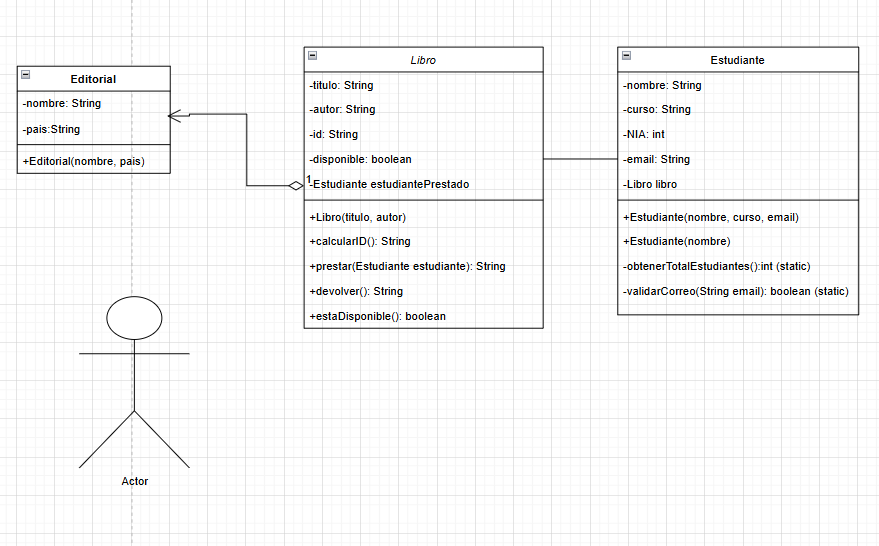
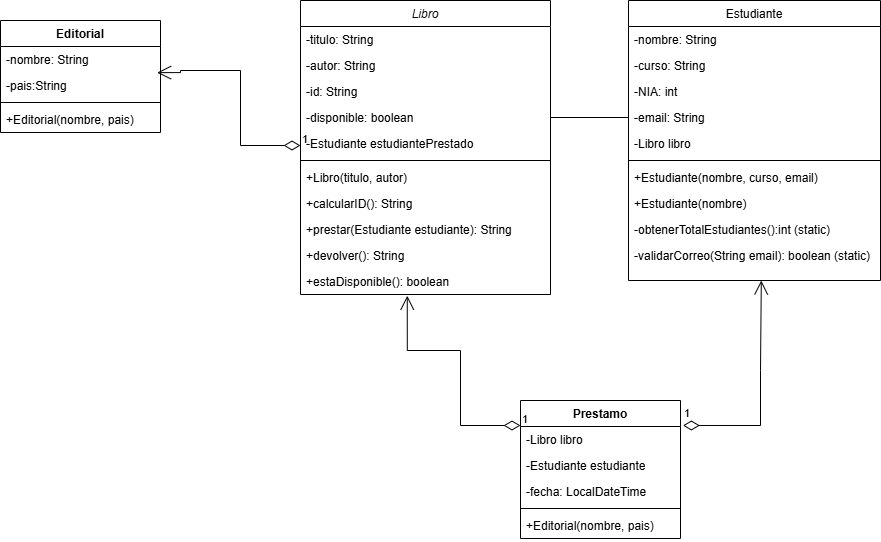
no message

diff --git a/Actividades2/src/main/java/ArrayLists/listaCompra.java b/Actividades2/src/main/java/ArrayLists/listaCompra.java
@@ -1,0 +1,73 @@
+package ArrayLists;
+
+import java.lang.reflect.Array;
+import java.util.ArrayList;
+import java.util.Arrays;
+
+public class listaCompra {
+    public static void main(String[] args) {
+
+        ArrayList<String> listaCompra = new ArrayList<>();
+
+        if(listaCompra.isEmpty()){
+            System.out.println("La lista de la compra está vacía");
+        }else{
+            System.out.println("La lista de la compra tiene elementos");
+        }
+        listaCompra.add("Leche");
+        if (listaCompra.isEmpty()){
+            System.out.println("La lista de la compra está vacía");
+        }else{
+            System.out.println("La lista de la compra tiene elementos");
+        }
+
+        listaCompra.addAll(Arrays.asList("Pan", "Huevos", "Azúcar", "Café", "Arroz"));
+        System.out.println("Lista de la compra: " + listaCompra);
+
+        System.out.println("Tercer elemento de la lista: " + listaCompra.get(2));
+
+        listaCompra.add(2, "Queso");
+
+        System.out.println(listaCompra.contains("Leche"));
+        String elemento = "Leche";
+            if(listaCompra.contains(elemento) ){
+                System.out.println("Elemento ya en la lista");
+            }else{
+                listaCompra.add(elemento);
+                System.out.println("Elemento añadido a la lista");
+            }
+
+        System.out.println("Numero de elementos: " + listaCompra.size());
+
+        ArrayList<String> clonLista = new ArrayList<>(listaCompra);
+
+        clonLista.clear();
+        System.out.println("Lista clon: " + clonLista);
+
+        boolean sonIguales = listaCompra.equals(clonLista);
+
+        if(sonIguales){
+            System.out.println("Las listas son iguales");
+        }else{
+            System.out.println("Las listas son diferentes");
+        }
+
+        clonLista.add("Leche");
+        clonLista.add("Pan");
+
+        ArrayList<String> faltantes = new ArrayList<>(listaCompra);
+
+        faltantes.removeAll(clonLista);
+
+        ArrayList<Integer> precios = new ArrayList<>(listaCompra.size());
+
+        precios.addAll(Arrays.asList(10, 13, 25, 39, 49, 5));
+
+        System.out.println(listaCompra);
+        System.out.println(precios);
+
+
+
+    }
+
+}

diff --git a/Actividades2/src/main/java/ArrayLists/AutobusImserso.java b/Actividades2/src/main/java/ArrayLists/AutobusImserso.java
@@ -1,0 +1,72 @@
+package ArrayLists;
+
+import java.util.ArrayList;
+
+public class AutobusImserso {
+
+    private String matricula;
+    private String destino;
+    private ArrayList<Abuelo> listaAbuelos;
+
+    public AutobusImserso(String matricula, String destino) {
+        this.matricula = matricula;
+        this.destino = destino;
+        listaAbuelos = new ArrayList<>();
+    }
+
+    public void insertarAbuelo(Abuelo abuelo) {
+        listaAbuelos.add(abuelo);
+    }
+
+    public void mostrarPasajeros() {
+        for (Abuelo abuelo : listaAbuelos) {
+            System.out.println(abuelo);
+        }
+    }
+    public void borrarAbuelo(Abuelo abuelo) {
+        listaAbuelos.remove(abuelo.getNombre());
+    }
+    public void mostarMayores(int edad){
+
+        for (Abuelo abuelo : listaAbuelos) {
+            if(abuelo.getEdad() > edad){
+                System.out.println(abuelo);
+            }
+        }
+    }
+
+
+    public String getMatricula() {
+        return matricula;
+    }
+
+    public void setMatricula(String matricula) {
+        this.matricula = matricula;
+    }
+
+    public String getDestino() {
+        return destino;
+    }
+
+    public void setDestino(String destino) {
+        this.destino = destino;
+    }
+
+    public ArrayList<Abuelo> getListaAbuelos() {
+        return listaAbuelos;
+    }
+
+    public void setListaAbuelos(ArrayList<Abuelo> listaAbuelos) {
+        this.listaAbuelos = listaAbuelos;
+    }
+
+    @Override
+    public String toString() {
+        return "AutobusImserso{" +
+                "matricula='" + matricula + '\'' +
+                ", destino='" + destino + '\'' +
+                ", listaAbuelos=" + listaAbuelos +
+                '}';
+    }
+
+}

diff --git a/Actividades2/src/main/java/ClasesRelaciones/Estudiante.java b/Actividades2/src/main/java/ClasesRelaciones/Estudiante.java
@@ -1,5 +1,7 @@
 package ClasesRelaciones;
 
+import java.util.ArrayList;
+
 public class Estudiante {
 
     private static int contadorEstudiantes = 0;
@@ -10,6 +12,7 @@ public class Estudiante {
     private int NIA;
     private String email;
     private Libro libro;
+    private ArrayList<Libro> listaLibrosPrestados;
 
     public Estudiante(String nombre, String curso, String email, Libro libro) {
         this.nombre = nombre;
@@ -17,9 +20,16 @@ public class Estudiante {
         this.email = email;
         NIA = contadorEstudiantes + 1;
         this.libro = libro;
+        listaLibrosPrestados = new ArrayList<>();
     }
     public Estudiante(String nombre){
         this.nombre = nombre;
+    }
+    public void anyadirLibro(Libro libro){
+        listaLibrosPrestados.add(libro);
+    }
+    public void borrarLibro(Libro libro){
+        listaLibrosPrestados.remove(libro);
     }
 
     private static int obtenerTotalEstudiantes(){
@@ -64,6 +74,13 @@ public class Estudiante {
     }
     public void setEmail(String email) {
         this.email = email;
+    }
+    public ArrayList<Libro> getListaLibrosPrestados() {
+        return listaLibrosPrestados;
+    }
+
+    public void setListaLibrosPrestados(ArrayList<Libro> listaLibrosPrestados) {
+        this.listaLibrosPrestados = listaLibrosPrestados;
     }
 
     @Override

diff --git a/Actividades2/src/main/java/ClasesRelaciones/Libro.java b/Actividades2/src/main/java/ClasesRelaciones/Libro.java
@@ -27,18 +27,22 @@ public class Libro {
     private String calcularId() {
         return PREFIJO_ID + cantidadLibros ;
     }
-    public String prestar(Estudiante estudiante) {
-        if (disponible) {
+    public Prestamo prestar(Estudiante estudiante) {
+        Prestamo prestamo = null;
+        if (disponible && estudiante.getLibro() == null ) {
             disponible = false;
             librosDisponibles--;
             estudiantePrestado = estudiante;
             estudiante.setLibro(this);
-            return "El libro ha sido prestado con éxito.";
+            prestamo = new Prestamo(this, estudiante);
+            System.out.println("El libro ha sido prestado con éxito.");
+            return prestamo;
         } else if(estudiantePrestado != null) {
-            return "El libro " + titulo + " ya está prestado a " + estudiantePrestado.getNombre() + ".";
+            System.out.println( "El libro " + titulo + " ya está prestado a " + estudiantePrestado.getNombre() + ".");
         }else{
-            return "El libro " + titulo + " no está disponible para préstamo.";
+            System.out.println( titulo + " no está disponible para préstamo.");
         }
+        return prestamo;
     }
     public String devolver() {
         if (!disponible) {

diff --git a/Actividades2/src/main/java/ClasesRelaciones/Prestamo.java b/Actividades2/src/main/java/ClasesRelaciones/Prestamo.java
@@ -1,0 +1,48 @@
+package ClasesRelaciones;
+
+import java.time.LocalDateTime;
+
+public class Prestamo {
+
+    private Libro libro;
+    private Estudiante estudiante;
+    private LocalDateTime fecha;
+
+    public Prestamo(Libro libro, Estudiante estudiante) {
+        this.libro = libro;
+        this.estudiante = estudiante;
+        fecha = LocalDateTime.now();
+    }
+    public Estudiante getEstudiante() {
+        return estudiante;
+    }
+
+    public void setEstudiante(Estudiante estudiante) {
+        this.estudiante = estudiante;
+    }
+
+    public LocalDateTime getFecha() {
+        return fecha;
+    }
+
+    public void setFecha(LocalDateTime fecha) {
+        this.fecha = fecha;
+    }
+
+    public Libro getLibro() {
+        return libro;
+    }
+
+    public void setLibro(Libro libro) {
+        this.libro = libro;
+    }
+
+    @Override
+    public String toString() {
+        return "Prestamo{" +
+                "libro=" + libro +
+                ", estudiante=" + estudiante +
+                ", fechaPrestamo=" + fecha +
+                '}';
+    }
+}

diff --git a/Actividades2/src/main/java/ClasesRelaciones/LibroAPP.java b/Actividades2/src/main/java/ClasesRelaciones/LibroAPP.java
@@ -4,11 +4,12 @@ public class LibroAPP {
 
     public static void main(String[] args) {
         Editorial millenium = new Editorial("Millenium", "Argentina");
-        Libro libro1 = new Libro("Cien Años de Soledad", "Gabriel García Márquez", millenium);
-        Estudiante Paco = new Estudiante("Paco", "DAM","apm209@alu.gva.es", libro1);
-        System.out.println(libro1);
-        System.out.println(millenium);
-        System.out.println(Paco);
+        Libro CienAnos = new Libro("Cien Años de Soledad", "Gabriel García Márquez", millenium);
+        Estudiante Paco = new Estudiante("Paco", "DAM","apm209@alu.gva.es", CienAnos);
+
+        Prestamo p1 = CienAnos.prestar(Paco);
+
+        System.out.println("Fecha de préstamo: " + p1.getFecha());
 
 
     }

diff --git a/Actividades2/src/main/java/ArrayLists/AbueloApp.java b/Actividades2/src/main/java/ArrayLists/AbueloApp.java
@@ -1,0 +1,24 @@
+package ArrayLists;
+
+public class AbueloApp {
+    public static void main(String[] args) {
+
+        Abuelo abuelo1 = new Abuelo("Juan", 70);
+        Abuelo abuelo2 = new Abuelo("Pedro", 75);
+        Abuelo abuelo3 = new Abuelo("Luis", 80);
+
+        AutobusImserso autobus = new AutobusImserso("1234ABC", "Madrid");
+
+        autobus.insertarAbuelo(abuelo1);
+        autobus.insertarAbuelo(abuelo2);
+        autobus.insertarAbuelo(abuelo3);
+
+        autobus.borrarAbuelo(abuelo2);
+
+        System.out.println("Lista de pasajeros:");
+        autobus.mostrarPasajeros();
+
+        System.out.println("\nAbuelos mayores de 80 años:");
+        autobus.mostarMayores(80);
+    }
+}

diff --git a/Actividades2/src/main/java/ArrayLists/Abuelo.java b/Actividades2/src/main/java/ArrayLists/Abuelo.java
@@ -1,0 +1,41 @@
+package ArrayLists;
+
+public class Abuelo {
+
+
+
+    private String nombre;
+    private int edad;
+
+    public Abuelo(String nombre, int edad) {
+        this.nombre = nombre;
+        this.edad = edad;
+    }
+
+
+
+    public String getNombre() {
+        return nombre;
+    }
+
+    public void setNombre(String nombre) {
+        this.nombre = nombre;
+    }
+
+    public int getEdad() {
+        return edad;
+    }
+
+    public void setEdad(int edad) {
+        this.edad = edad;
+    }
+
+    @Override
+    public String toString() {
+        return "Abuelo{" +
+                "nombre='" + nombre + '\'' +
+                ", edad=" + edad +
+                '}';
+    }
+
+}

diff --git a/Actividades2/src/main/java/ArrayLists/Prueba.java b/Actividades2/src/main/java/ArrayLists/Prueba.java
@@ -1,0 +1,26 @@
+package ArrayLists;
+
+import java.util.ArrayList;
+import java.util.Arrays;
+
+public class Prueba {
+    public static void main(String[] args) {
+
+        ArrayList<Integer> listaNumeros = new ArrayList<>();
+        listaNumeros.add(10);
+        listaNumeros.add(20);
+        Object copia_mala = listaNumeros.clone();
+        ArrayList<Integer> copia_buena = new ArrayList<>(listaNumeros);
+
+        System.out.println(listaNumeros.contains(10));
+
+        listaNumeros.clear();
+        System.out.println("Lista vacia: " + listaNumeros.isEmpty());
+
+        listaNumeros.addAll(Arrays.asList(1,2,3,4,5,6,7,8,9,10));
+
+        System.out.println(listaNumeros);
+
+
+    }
+}

diff --git a/Actividades2/src/main/java/markdown/README.md b/Actividades2/src/main/java/markdown/README.md
@@ -29,7 +29,7 @@
 - 🎓 Estudiante de **Grado Superior en Desarrollo de Aplicaciones Multiplataforma (2024–2026)**
 - 🌍 Idiomas:
   - Español: Nativo
-  - Inglés: C1 Avanzado
+  - Inglés: C1 Avanzadosd
   - Francés: B2 Intermedio
 - 💡 Interesado en programación, bases de datos e inteligencia artificial
 - 🚀 En constante aprendizaje y mejora profesional
